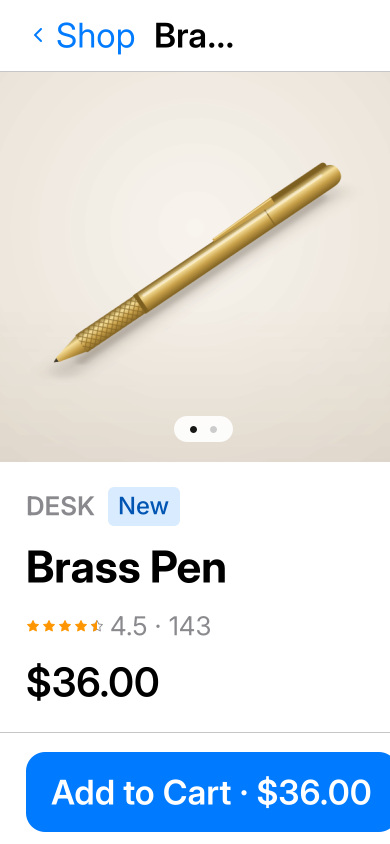
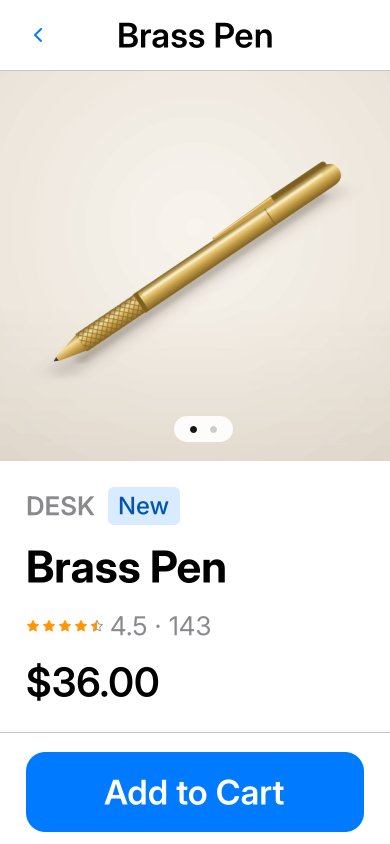
Examples (shop): back button drops its title like iOS
At accessibility text sizes, or when the previous page's name would crowd
the centered title, the back button is the chevron alone (still labeled
"Back to Shop"), and the title gets the room. At those sizes Add to Cart
also leaves the total to the price above it. Screenshots refreshed.

diff --git a/examples/shop/ui.js b/examples/shop/ui.js
@@ -93,6 +93,7 @@ export function largeTitle(cx, title, subtitle) {
 export function navBar(cx, { title, back }) {
   const t = cx.theme();
   const ios = cx.window().platform !== "android";
+  const backTitle = ios && backTitleFits(cx, back.label, title);
   const backButton = Button.new("back")
     .test_id("back")
     .accessibility_label(`Back to ${back.label}`)
@@ -107,8 +108,9 @@ export function navBar(cx, { title, back }) {
     .when(!back.disabled, (el) => el.active((s) => s.opacity(0.5)).on_click(back.on_click))
     .when(Boolean(back.disabled), (el) => el.opacity(0.4))
     .when(ios, (el) => el.text_color(t.primary).child(icon("chevron_left", t.primary, 24)))
-    // As UIKit does, the previous page's name gives way when it would crowd the title.
-    .when(ios && back.label.length + title.length <= 26, (el) => el.child(text(cx, "body", back.label, t.primary)))
+    // As UIKit does, the previous page's name gives way to the chevron alone at
+    // accessibility text sizes or when it would crowd the centered title.
+    .when(backTitle, (el) => el.child(text(cx, "body", back.label, t.primary)))
     .when(!ios, (el) => el.child(icon("arrow_left", t.foreground, 24)));
   const heading = text(cx, "headline", title).role("header").truncate();
   return v_flex()
@@ -116,13 +118,14 @@ export function navBar(cx, { title, back }) {
     .bg(t.background)
     .border_b_1()
     .border_color(t.border)
+    // The centered title keeps clear of the back button on both sides: of its title when shown, else of the chevron.
     .child(
       ios
         ? h_flex()
             .relative()
             .min_h_11()
             .px_2()
-            .child(div().absolute().left_0().right_0().top_0().bottom_0().flex().items_center().justify_center().px_24().child(heading))
+            .child(div().absolute().left_0().right_0().top_0().bottom_0().flex().items_center().justify_center().px(backTitle ? 96 : 52).child(heading))
             .child(backButton)
         : h_flex().min_h_12().py_1().px_2().gap_2().child(backButton).child(div().flex_1().min_w_0().child(heading)),
     );
@@ -276,6 +279,20 @@ export function quantityStepper(cx, { id, value, min = 1, max, label, on_change,
     .child(step(-1, "minus", !disabled && value > min))
     .child(text(cx, "headline", String(value)).test_id(`${id}-value`).min_w_6().text_center())
     .child(step(1, "plus", !disabled && value < max));
+}
+
+/**
+ * Whether the back button's title fits beside the centered page title, from
+ * an estimate of both widths (an average glyph is about 0.55 em at 17 pt).
+ */
+function backTitleFits(cx, label, title) {
+  const win = cx.window();
+  if (win.font_scale >= 1.35) return false;
+  const glyph = 17 * 0.55 * win.font_scale;
+  const titleWidth = title.length * glyph;
+  // Chevron, paddings and a gap before the title.
+  const backWidth = 8 + 24 + label.length * glyph + 12;
+  return backWidth <= (win.width - titleWidth) / 2;
 }
 
 /** A large title's size: 34 pt, growing with the user's text size only up to 1.6×, as native large titles do. */

diff --git a/examples/shop/product.js b/examples/shop/product.js
@@ -218,6 +218,13 @@ export default class ProductPage extends View {
       );
   }
 
+  buyLabel(cx, atLimit) {
+    if (atLimit) return `Limit of ${MAX_QUANTITY} reached`;
+    // At accessibility text sizes the total doesn't fit beside the verb; the price is on the page above.
+    if (cx.window().font_scale >= 1.5) return "Add to Cart";
+    return `Add to Cart · ${money(this.product.price * this.quantity)}`;
+  }
+
   buyBar(cx) {
     const t = cx.theme();
     const atLimit = store.quantityOf(this.product.id, this.color, this.size) >= MAX_QUANTITY;
@@ -238,7 +245,7 @@ export default class ProductPage extends View {
           .flex_1()
           .disabled(atLimit)
           .on_click((_e, cx) => this.add(cx))
-          .child(atLimit ? `Limit of ${MAX_QUANTITY} reached` : `Add to Cart · ${money(this.product.price * this.quantity)}`),
+          .child(this.buyLabel(cx, atLimit)),
       );
   }
 }

diff --git a/crates/engine/tests/example_shop.rs b/crates/engine/tests/example_shop.rs
@@ -334,3 +334,24 @@ fn shop_order_history_has_an_empty_state() {
     assert!(h.find("order-LS-10480").is_none());
     let _ = std::fs::remove_dir_all(&dir);
 }
+
+#[test]
+fn shop_back_button_drops_its_title_when_it_would_crowd_the_page_title() {
+    use native_shell::core::host::Environment;
+    let dir = data_dir("back");
+    let mut h = loaded(&dir);
+    h.tap("product-mug");
+    assert_eq!(h.text_of("back"), "Shop");
+    h.tap("back");
+    // A long product name leaves no room for "Shop" beside it.
+    h.tap("product-towels");
+    assert_eq!(h.text_of("back"), "");
+    assert_eq!(label(&h, "back"), "Back to Shop");
+    h.tap("back");
+    // At accessibility text sizes the chevron stands alone.
+    h.set_environment(Environment { width: 390.0, height: 844.0, font_scale: 2.0, ..Environment::default() });
+    h.tap("product-mug");
+    assert_eq!(h.text_of("back"), "");
+    assert_eq!(label(&h, "back"), "Back to Shop");
+    let _ = std::fs::remove_dir_all(&dir);
+}
